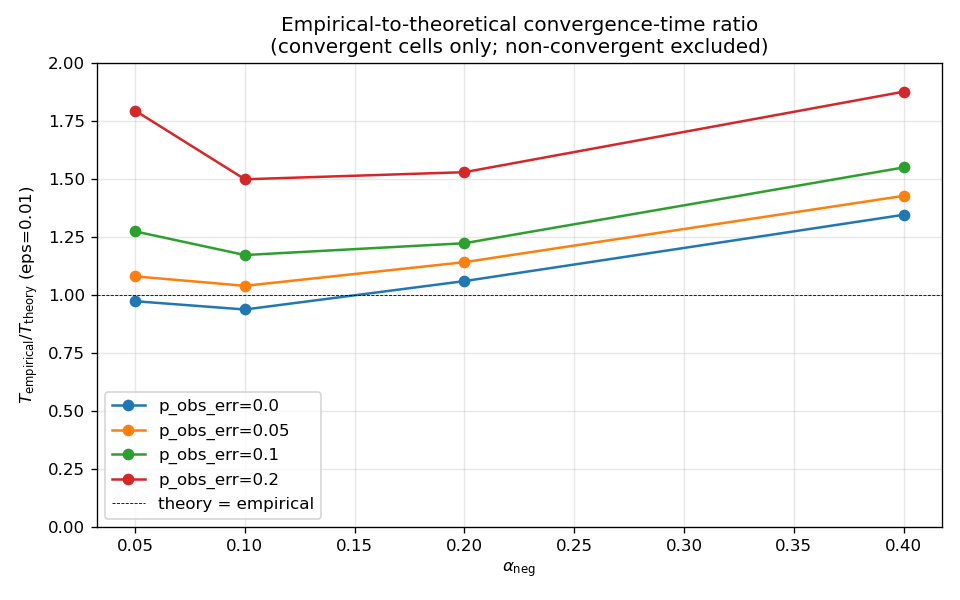
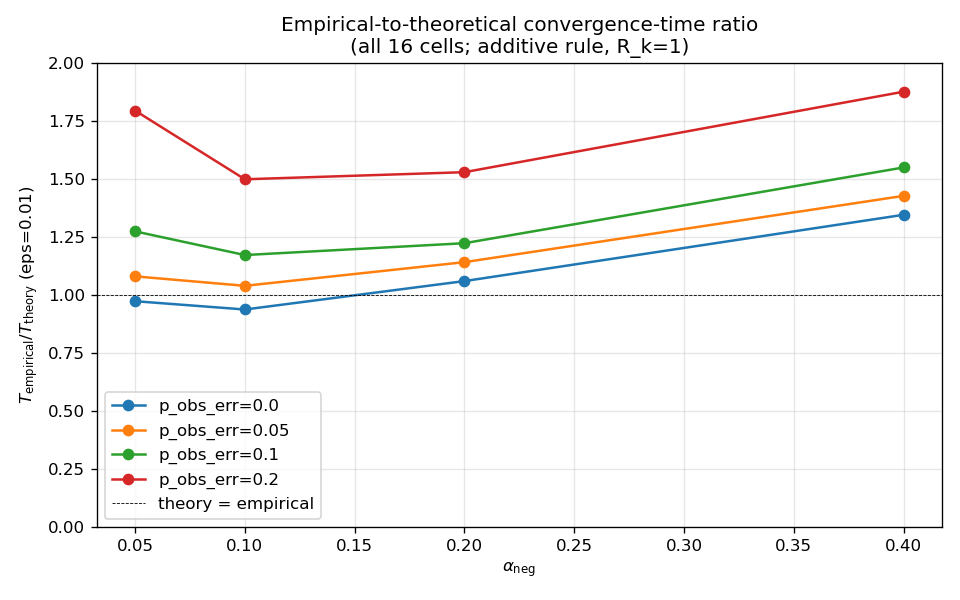
Update clamp_convergence figure title to reflect additive-rule reality
The theory_vs_empirical_ratio.png embedded title still carried legacy
wording from the v1.0 multiplicative simulator ("convergent cells only;
non-convergent excluded"), where only 5/16 cells converged within the
250-round cap. Under the additive rule (v1.1) all 16 cells converge,
so the parenthetical was stale.

Replaces the title with "(all 16 cells; additive rule, R_k=1)" and
updates the surrounding comment in analyze.py accordingly. PNG
regenerated from the existing v1.1 results.json (no numerical change).

Changed region(s): [[0.2812, 0.06, 0.8125, 0.09]]

diff --git a/clamp_convergence/analyze.py b/clamp_convergence/analyze.py
@@ -39,10 +39,9 @@ def main() -> None:
     plt.close(fig)
 
     # Figure 2: theory ratio vs alpha_neg, faceted by p_obs_err.
-    # Only convergent cells are plotted; non-convergent cells (where
-    # T_eps was not reached within n_rounds and the ratio is therefore
-    # undefined) are dropped — plotting them would misleadingly suggest
-    # the bound holds in regimes where it does not.
+    # Under the paper's additive rule with R_k=1, all 16 cells converge
+    # within n_rounds. Any non-convergent cells (none expected) would be
+    # excluded from the plot since their ratio is undefined.
     fig, ax = plt.subplots(figsize=(8, 5))
     for p in P_OBS:
         xs, ys = [], []
@@ -60,7 +59,7 @@ def main() -> None:
     ax.axhline(1.0, color="black", lw=0.5, ls="--", label="theory = empirical")
     ax.set_xlabel(r"$\alpha_\mathrm{neg}$")
     ax.set_ylabel(r"$T_\mathrm{empirical} / T_\mathrm{theory}$ (eps=0.01)")
-    ax.set_title("Empirical-to-theoretical convergence-time ratio\n(convergent cells only; non-convergent excluded)")
+    ax.set_title("Empirical-to-theoretical convergence-time ratio\n(all 16 cells; additive rule, R_k=1)")
     ax.set_ylim(0, 2)
     ax.legend()
     ax.grid(True, alpha=0.3)